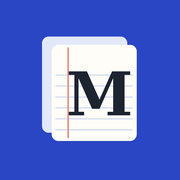
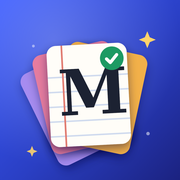
Nouvelle icône : éventail de fiches aux couleurs des matières
Claude-Session: https://claude.ai/code/session_01TM5Ev1hECxYNH2eAWsJGXE

diff --git a/index.html b/index.html
@@ -12,8 +12,9 @@
 <meta name="apple-mobile-web-app-status-bar-style" content="default">
 <meta name="apple-mobile-web-app-title" content="Révisions">
 <link rel="manifest" href="manifest.webmanifest">
-<link rel="icon" href="icones/icone-192.png" type="image/png">
-<link rel="apple-touch-icon" href="icones/apple-touch-icon.png">
+<link rel="icon" href="icones/icone.svg" type="image/svg+xml">
+<link rel="icon" href="icones/favicon-48.png" type="image/png" sizes="48x48">
+<link rel="apple-touch-icon" href="icones/apple-touch-icon.png?v=2">
 <link rel="preconnect" href="https://fonts.googleapis.com">
 <link rel="preconnect" href="https://fonts.gstatic.com" crossorigin>
 <link rel="stylesheet" href="https://fonts.googleapis.com/css2?family=Atkinson+Hyperlegible+Next:wght@400;600;700&family=Young+Serif&display=swap">

diff --git a/sw.js b/sw.js
@@ -1,5 +1,5 @@
 /* Service worker : appli disponible hors ligne, contenus mis à jour en arrière-plan. */
-const VERSION = "rev-2026-10-31-1";
+const VERSION = "rev-2026-10-31-2";
 const SHELL = ["./", "index.html", "styles.css", "app.js", "config.js", "manifest.webmanifest", "catalogue.json",
   "icones/icone-192.png", "icones/icone-512.png", "icones/apple-touch-icon.png", "vendor/pdf.min.js", "vendor/pdf.worker.min.js"];
 
